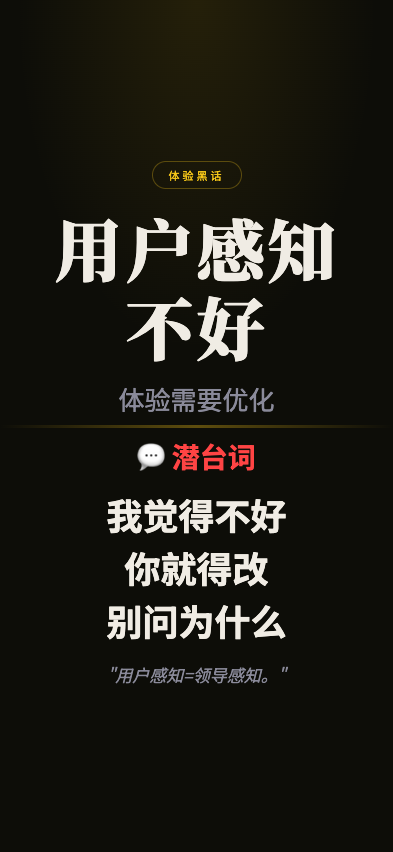
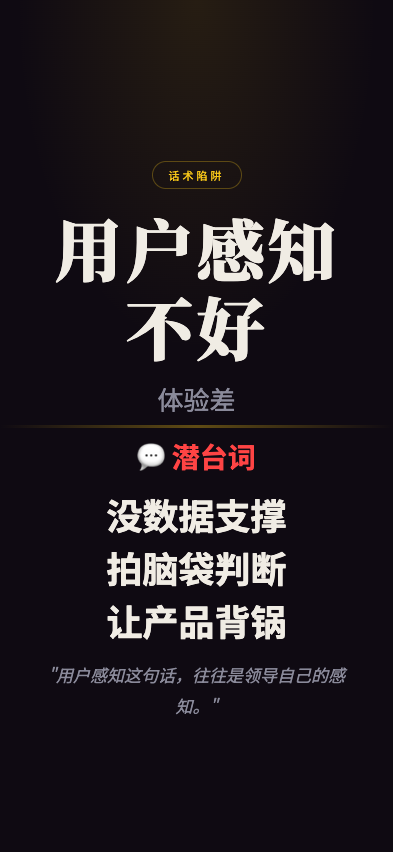
feat: 职场生存法则 screenshot - yonghuganzhibuhao

Changed region(s): [[0.1527, 0.5798, 0.8855, 0.8545], [0.3053, 0.4577, 0.7023, 0.4883], [0.4275, 0.1831, 0.5802, 0.2136]]

diff --git a/wuliao-tools/tools/biz-speak/scenes/yonghuganzhibuhao.html b/wuliao-tools/tools/biz-speak/scenes/yonghuganzhibuhao.html
@@ -7,7 +7,7 @@
 <link href="https://fonts.googleapis.com/css2?family=Noto+Serif+SC:wght@400;700;900&family=Noto+Sans+SC:wght@300;400;700&display=swap" rel="stylesheet">
 <style>
   :root {
-    --bg: #0d0d08;
+    --bg: #0f0a12;
     --text: #f0ece4;
     --text-dim: #8a8a9a;
     --gold: #f5c518;
@@ -41,19 +41,19 @@
 </head>
 <body>
   <div class="top">
-    <div class="tag">体验黑话</div>
+    <div class="tag">话术陷阱</div>
     <div class="main-title">用户感知不好</div>
-    <div class="sub-title">体验需要优化</div>
+    <div class="sub-title">体验差</div>
   </div>
   <div class="divider"></div>
   <div class="bottom">
     <div class="truth-label">💬 潜台词</div>
     <div class="truth-lines">
-      <div class="truth-line">我觉得不好</div>
-      <div class="truth-line">你就得改</div>
-      <div class="truth-line">别问为什么</div>
+      <div class="truth-line">没数据支撑</div>
+      <div class="truth-line">拍脑袋判断</div>
+      <div class="truth-line">让产品背锅</div>
     </div>
-    <div class="quote">"用户感知=领导感知。"</div>
+    <div class="quote">"用户感知这句话，往往是领导自己的感知。"</div>
   </div>
 </body>
 </html>
